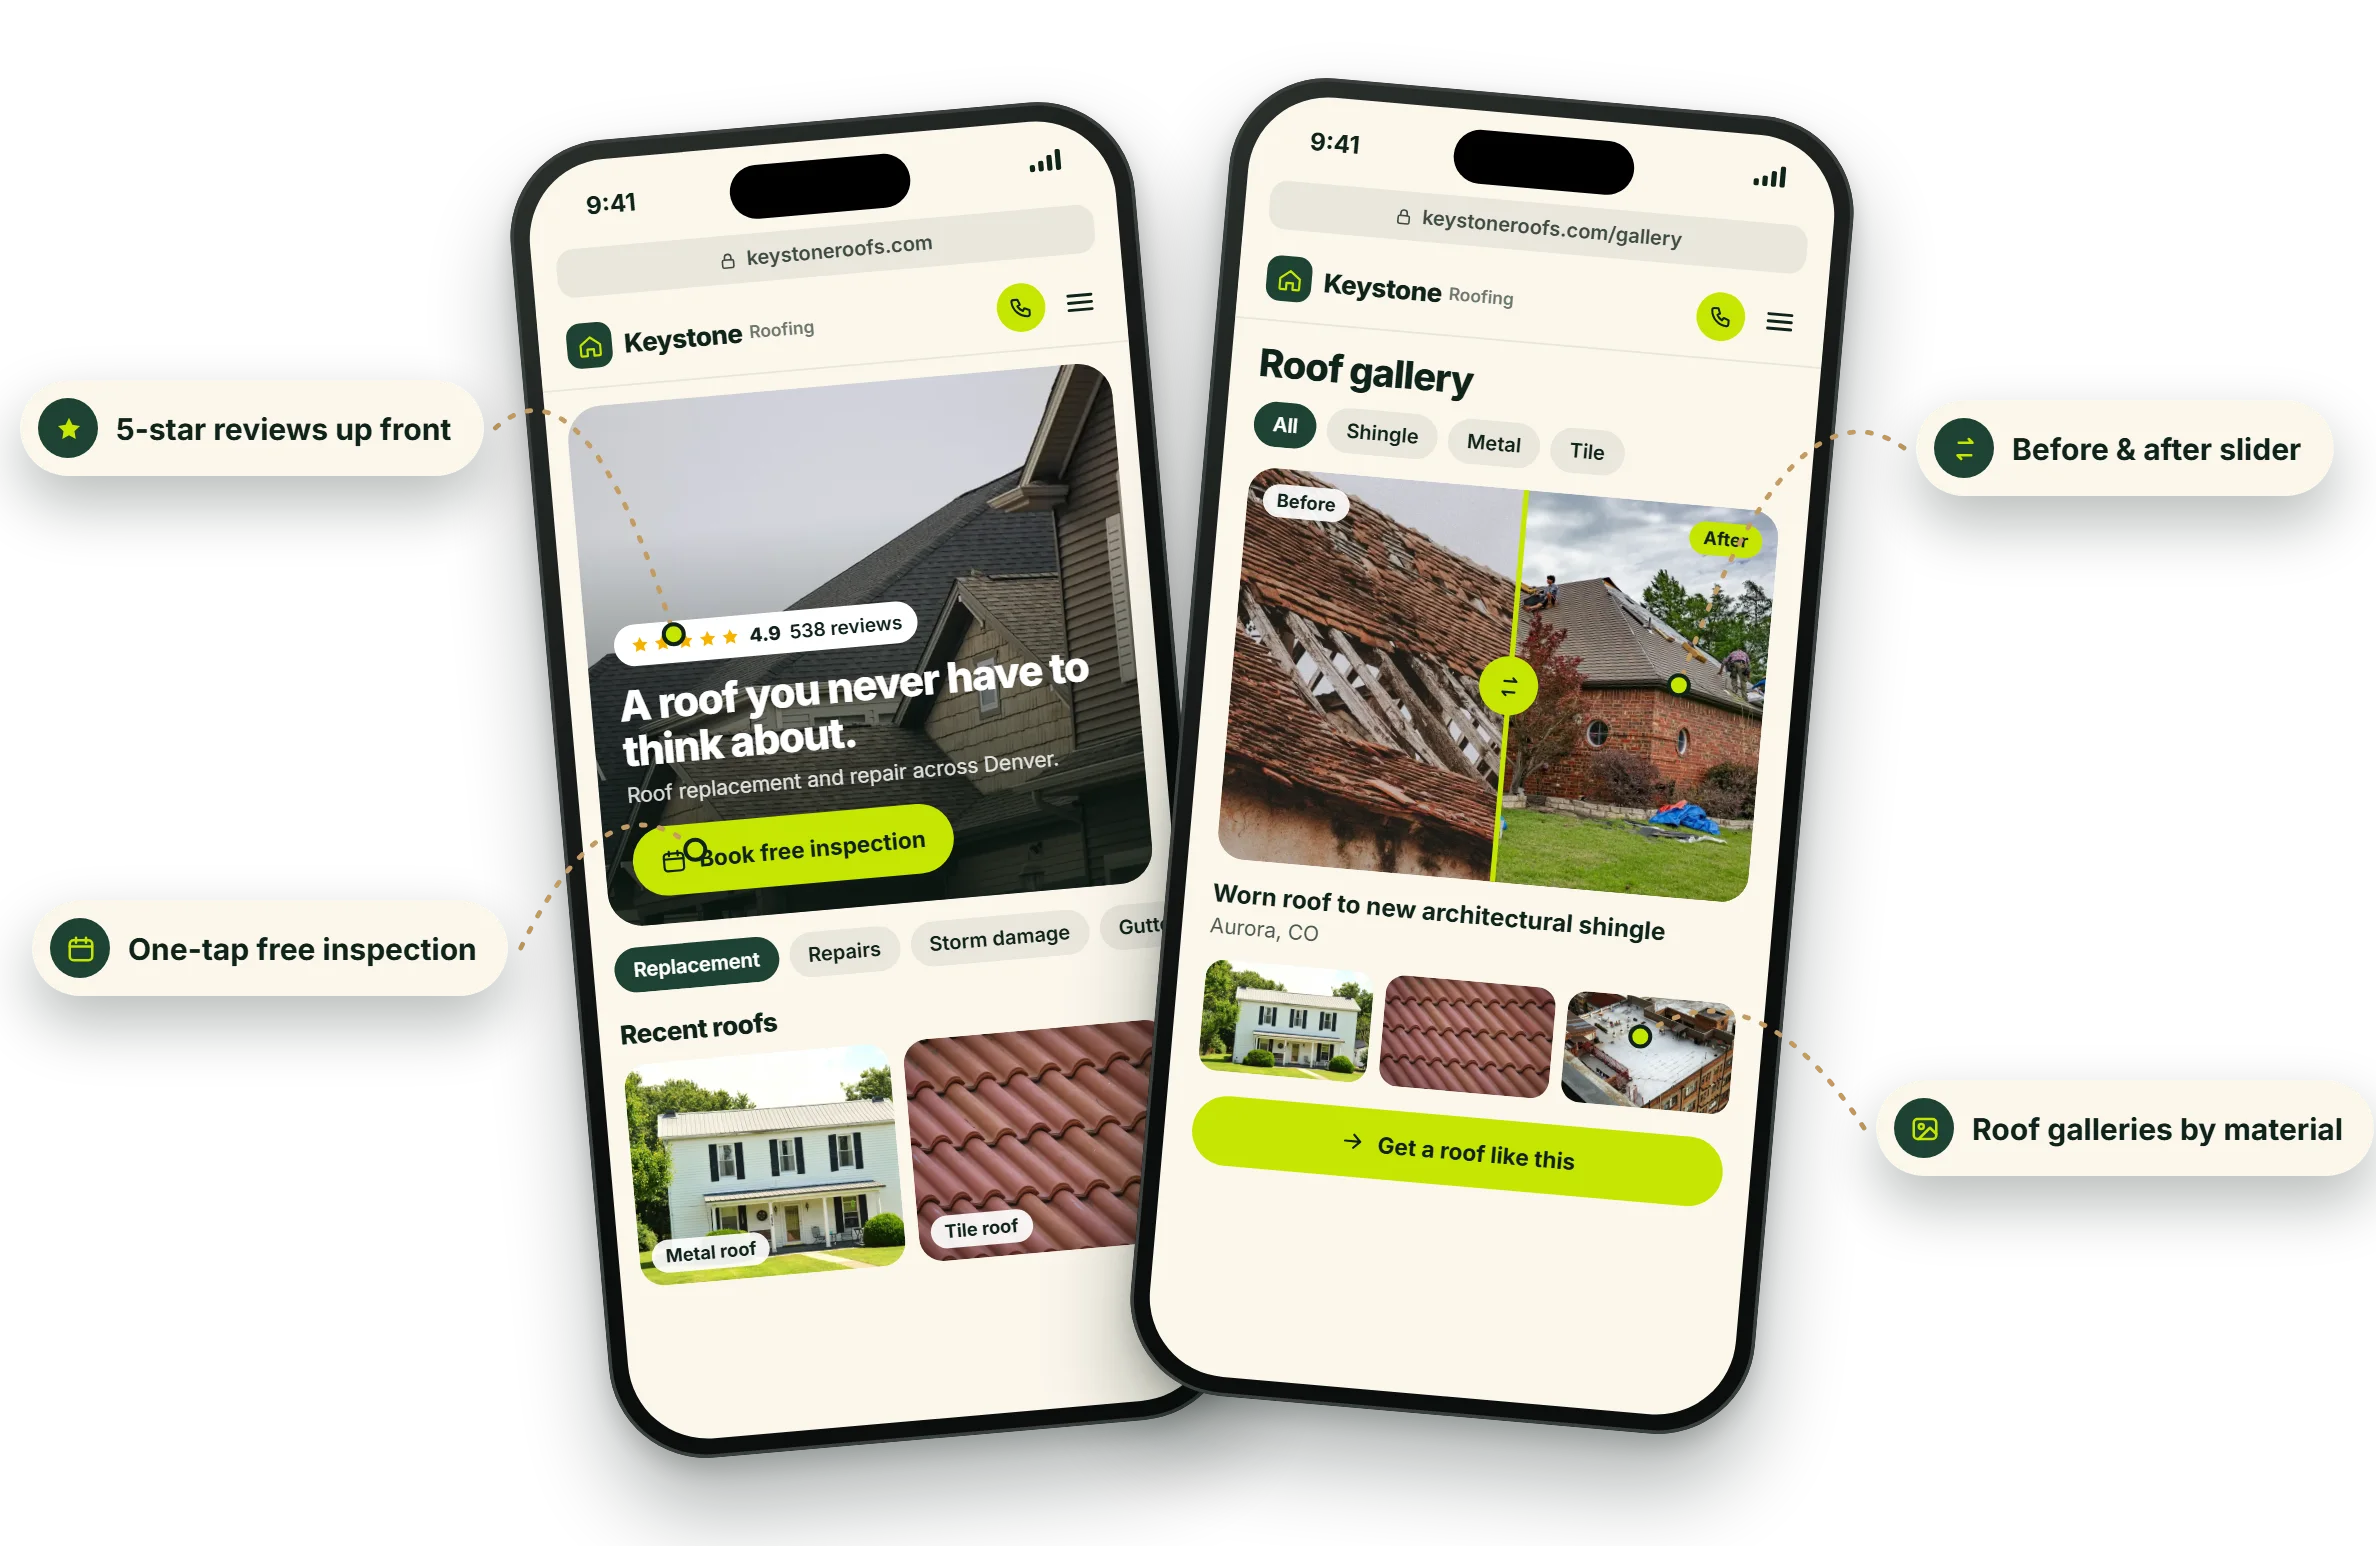
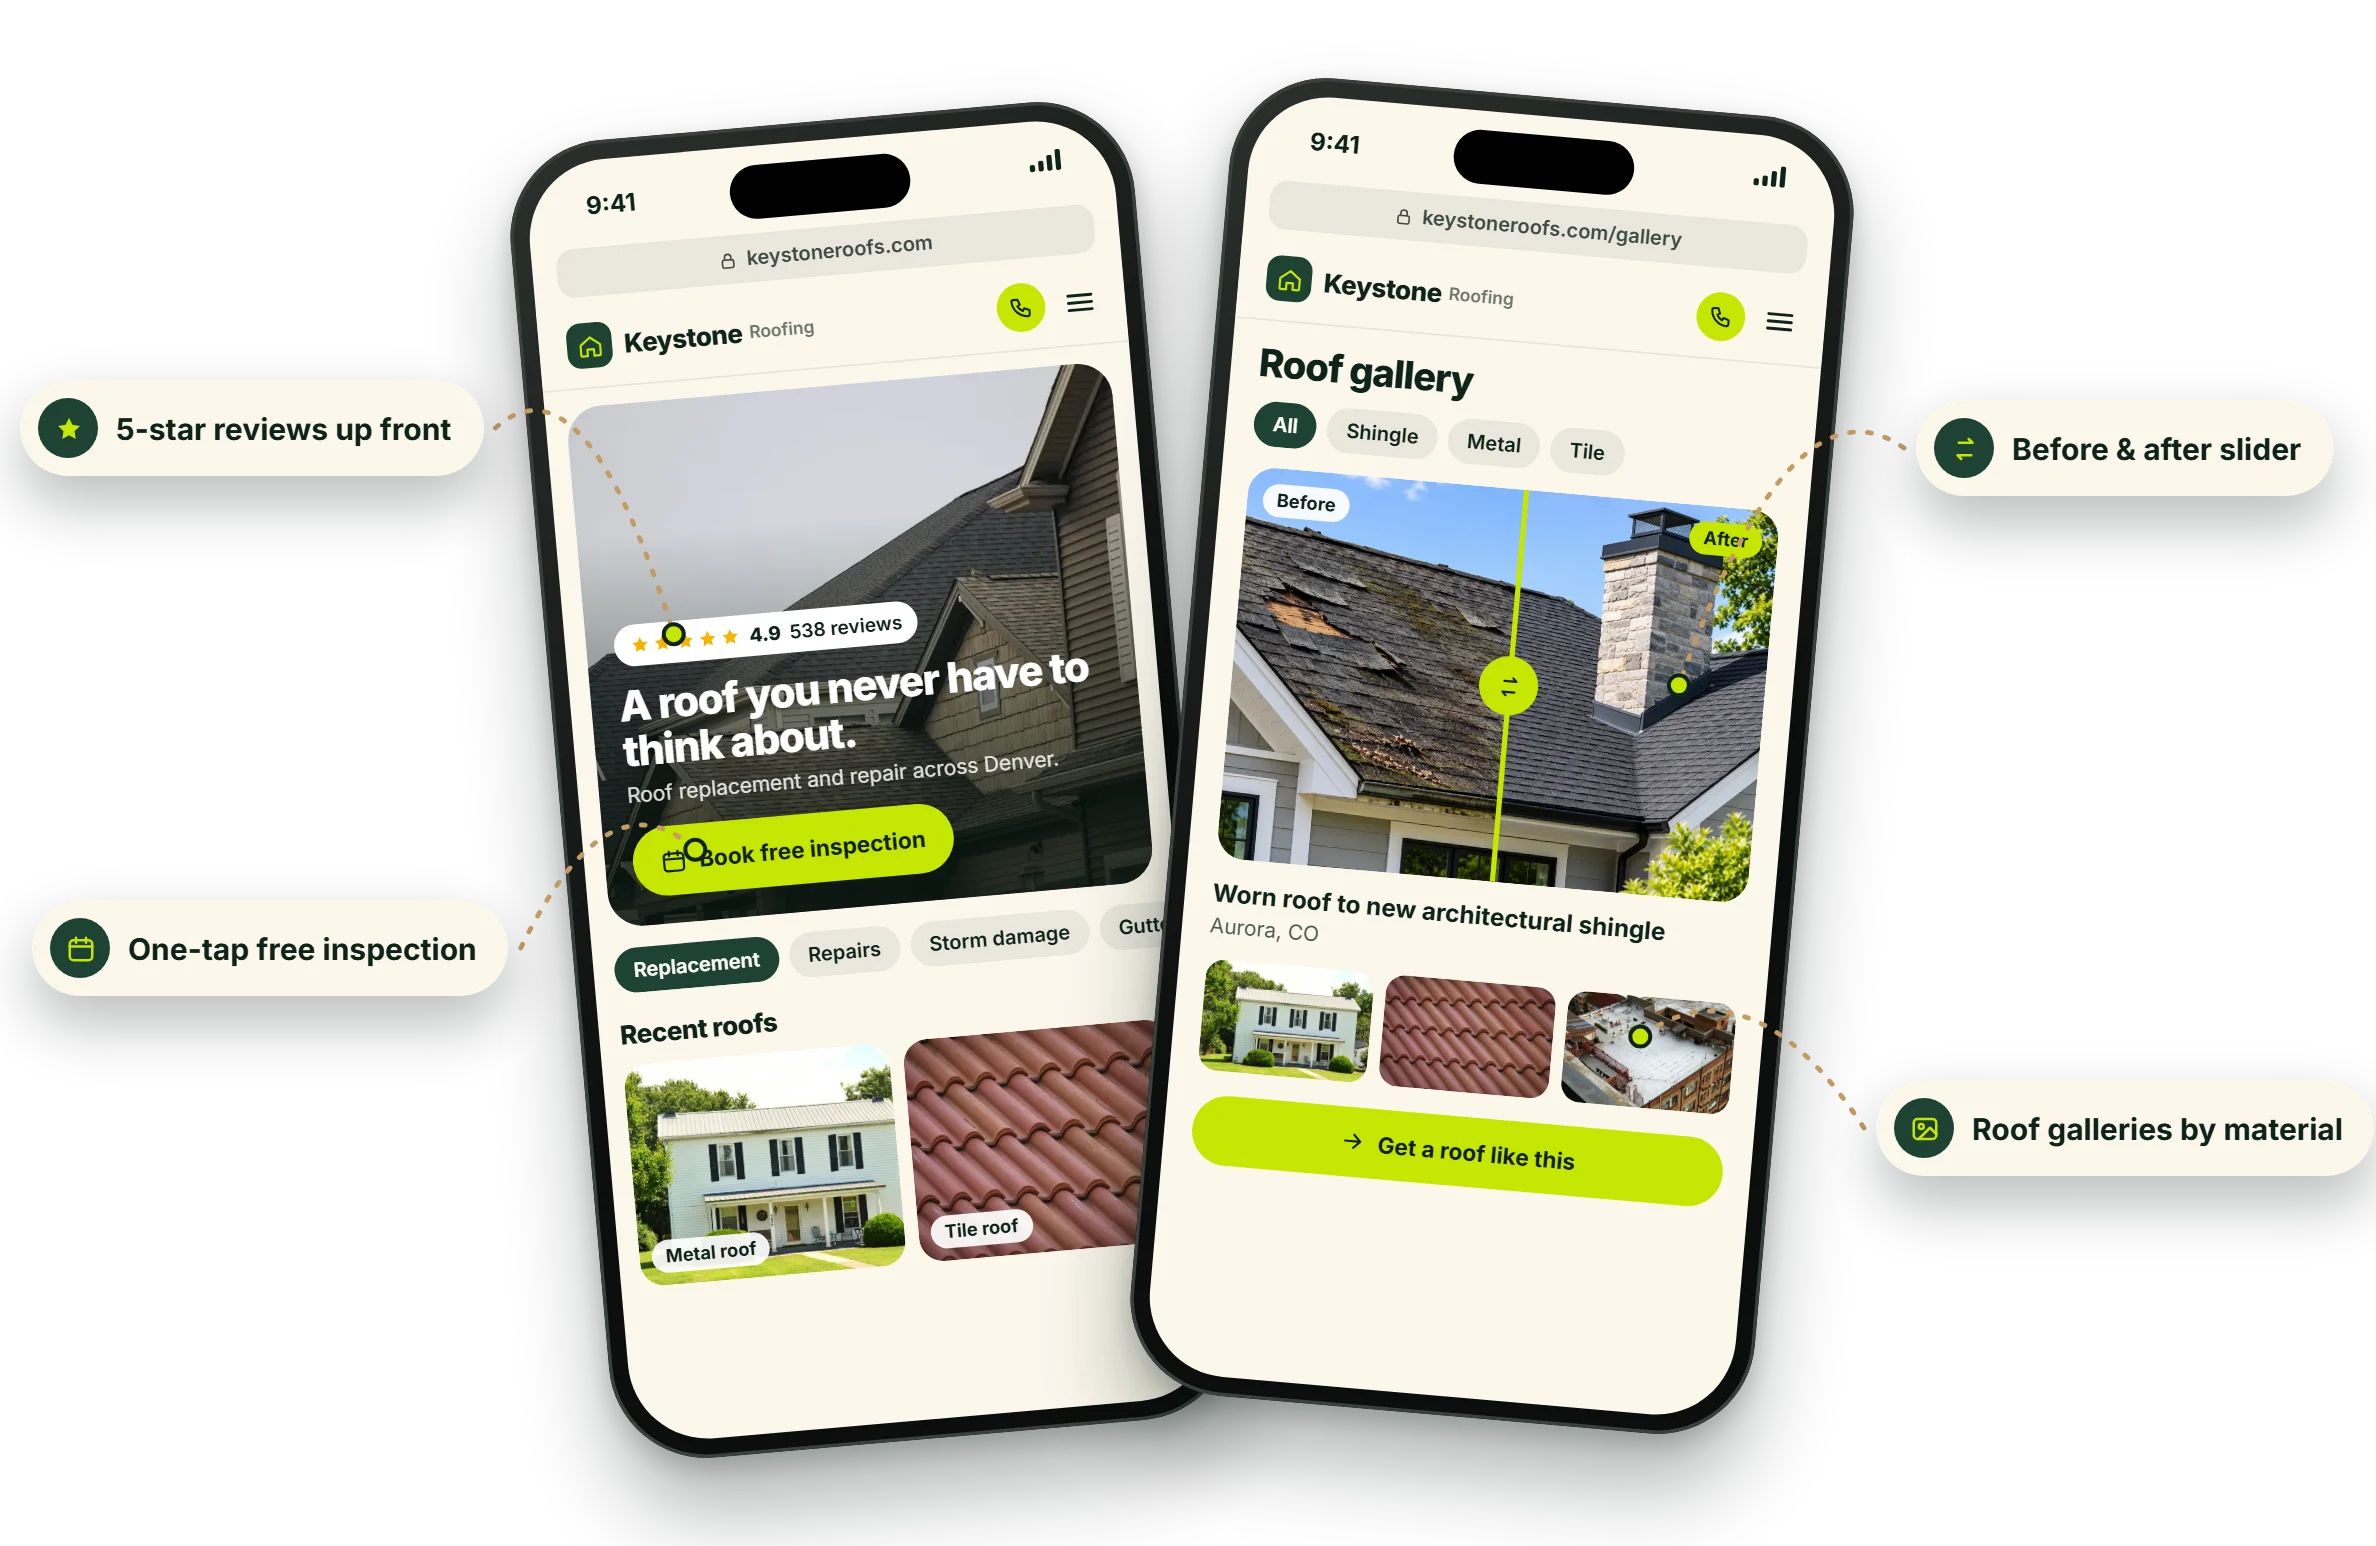
Changes

Changed region(s): [[0.4983, 0.2794, 0.7475, 0.5899]]

diff --git a/roofing.php b/roofing.php
@@ -84,8 +84,8 @@ include __DIR__ . '/includes/header.php';
       <a href="tel:+15123379723" class="rx-cta"><span>BOOK A CALL</span><i aria-hidden="true"><svg viewBox="0 0 24 24" fill="none" stroke="currentColor" stroke-width="2.4" stroke-linecap="square"><path d="M6 18L18 6M8 6h10v10"/></svg></i></a>
     </div>
     <div class="rx-ba-stage" data-rx-ba-stage>
-      <img class="rx-ba-before" src="/assets/images/rf-ba-before.webp" alt="Damaged roof with missing shingles" width="1600" height="1067" loading="lazy" decoding="async">
-      <div class="rx-ba-after"><img src="/assets/images/rf-ba-after.webp" alt="Roofers installing a new roof on the house" width="1600" height="1067" loading="lazy" decoding="async"></div>
+      <img class="rx-ba-before" src="/assets/images/Roofing_Before.webp" alt="Old roof with missing shingles, moss and loose flashing" width="1536" height="1024" loading="lazy" decoding="async">
+      <div class="rx-ba-after"><img src="/assets/images/Roofing_After.webp" alt="The same roof replaced with new dark shingles" width="1536" height="1024" loading="lazy" decoding="async"></div>
       <span class="rx-ba-handle" aria-hidden="true"><span></span></span>
       <span class="rx-ba-chip rx-ba-chip--b">Before</span>
       <span class="rx-ba-chip rx-ba-chip--a">After</span>
